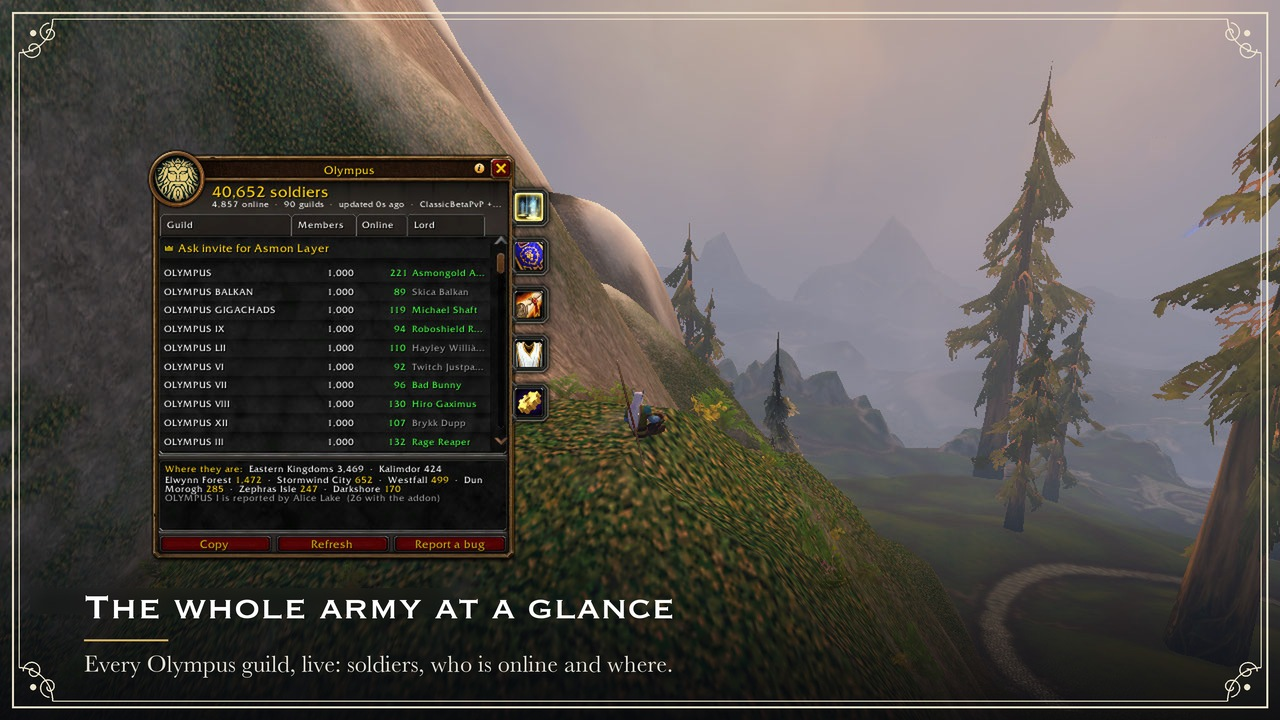
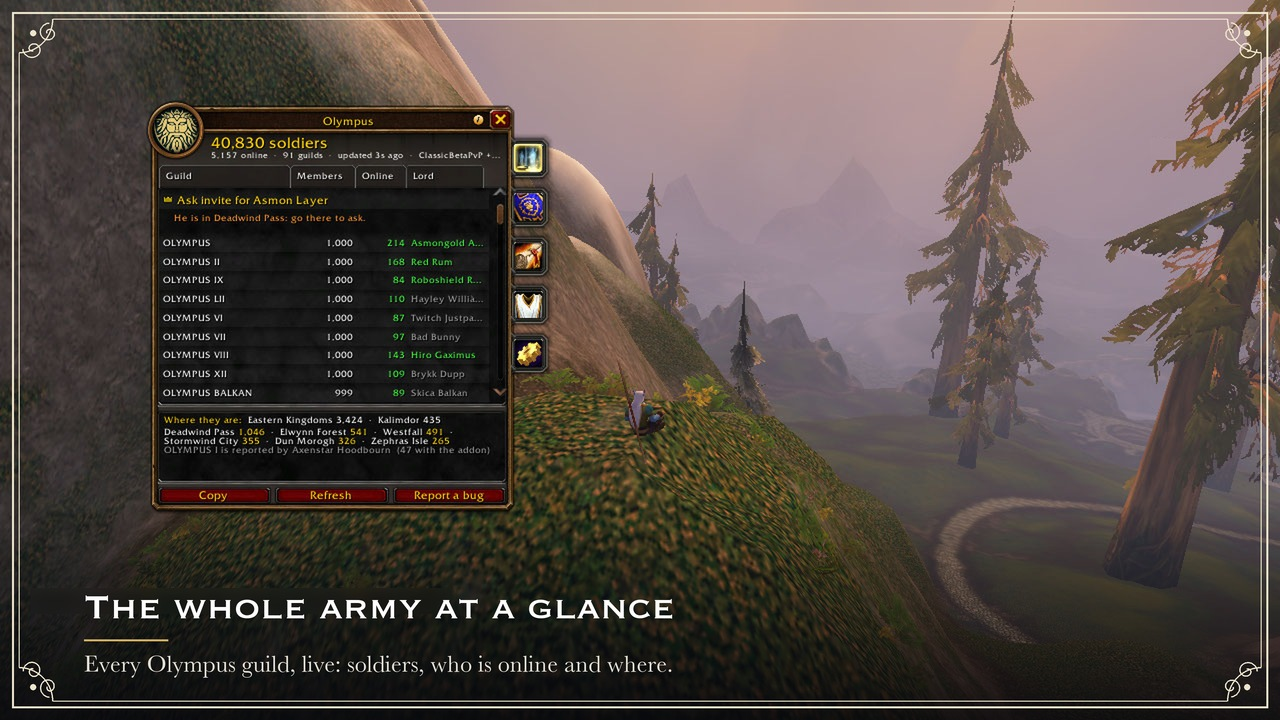
1.0.0: the retaken screenshots, the window higher, and one more: a guild's details on hover

diff --git a/README.md b/README.md
@@ -19,11 +19,13 @@ looks like Blizzard's Guild window and docks right next to it.
 <table>
 <tr>
 <td><img src="docs/olympus-2.jpg" alt="The Realm: the King, the Treasurer and every Lord and Captain"></td>
-<td><img src="docs/olympus-3.jpg" alt="One click to anyone: whisper, invite or find a Lord or Captain"></td>
+<td><img src="docs/olympus-3.jpg" alt="Every guild in detail: hover a guild for members, online, Lord, free slots, level and classes"></td>
+</tr>
+<tr>
+<td><img src="docs/olympus-4.jpg" alt="One click to anyone: whisper, invite or find a Lord or Captain"></td>
+<td><img src="docs/olympus-5.jpg" alt="Where the army stands: soldiers per zone on the world map"></td>
 </tr>
 </table>
-
-<p align="center"><img src="docs/olympus-4.jpg" alt="Where the army stands: soldiers per zone on the world map"></p>
 
 > **Status:** built for WoW: Forever and running on the Forever beta (1.60.1), where the
 > census already adds up reports from many Olympus guilds. Also tested on Classic Era (1.15)

diff --git a/docs/CURSEFORGE.md b/docs/CURSEFORGE.md
@@ -14,7 +14,7 @@ looks like Blizzard's Guild window and docks right next to it.
 
 ![The whole army at a glance: every Olympus guild, live](https://raw.githubusercontent.com/dnl-gentile/olympus-addon/main/docs/olympus-1.jpg)
 
-![Where the army stands: soldiers per zone on the world map](https://raw.githubusercontent.com/dnl-gentile/olympus-addon/main/docs/olympus-4.jpg)
+![Where the army stands: soldiers per zone on the world map](https://raw.githubusercontent.com/dnl-gentile/olympus-addon/main/docs/olympus-5.jpg)
 
 > **Status:** built for WoW: Forever and running on the Forever beta (1.60.1), where the
 > census already adds up reports from many Olympus guilds. Also tested on Classic Era (1.15)
